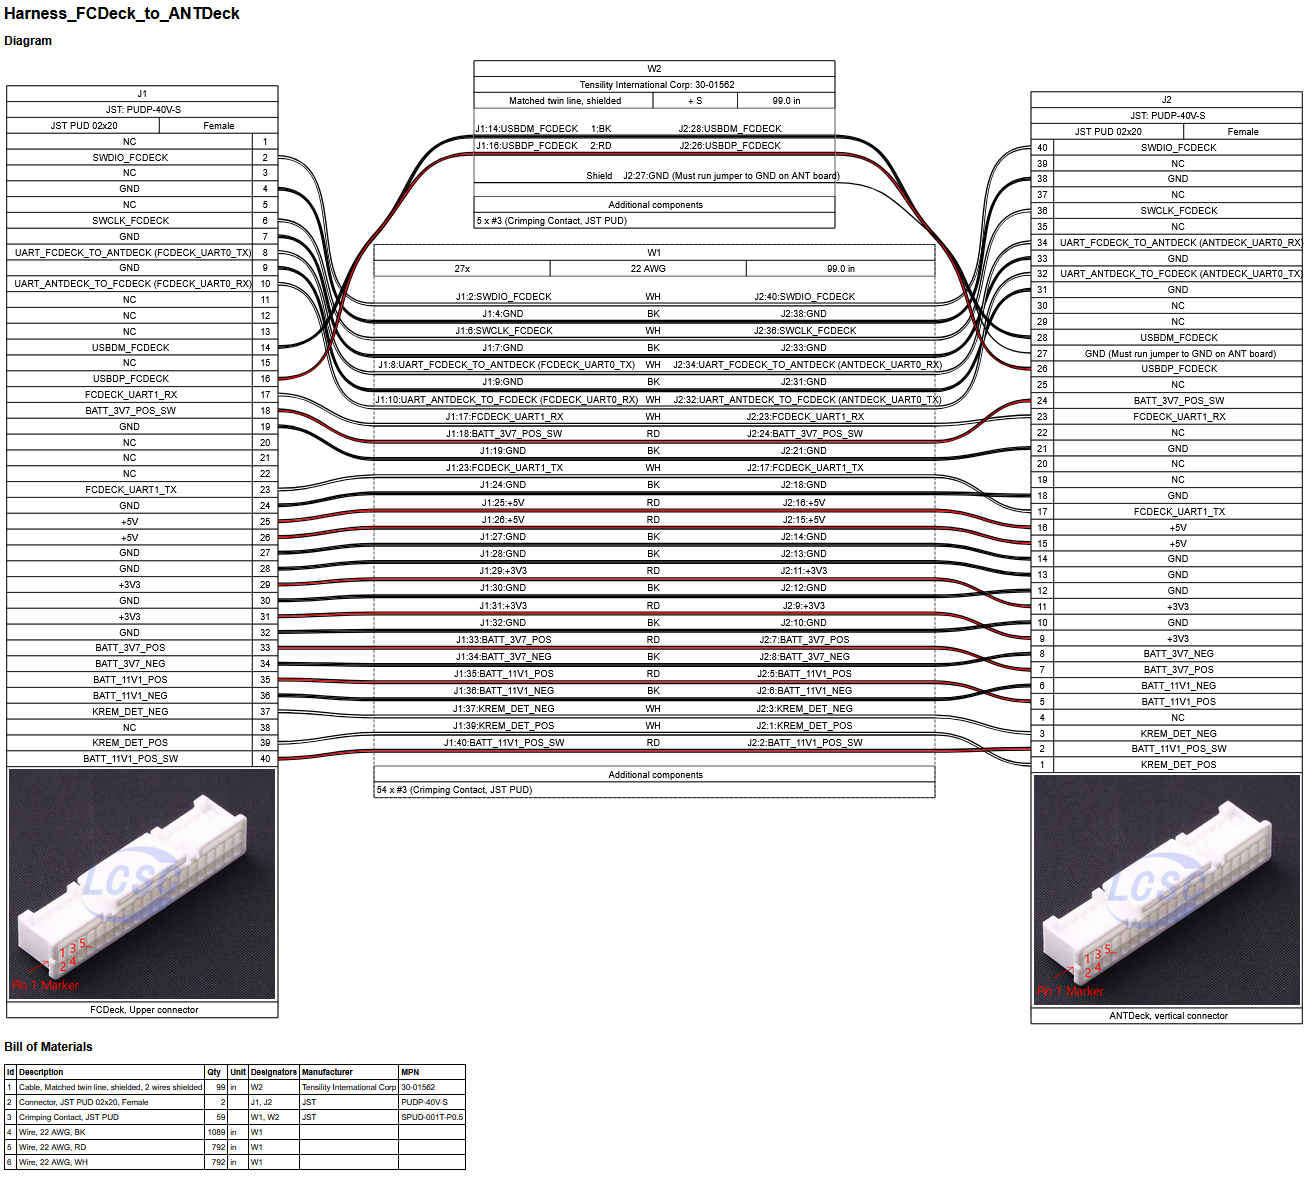
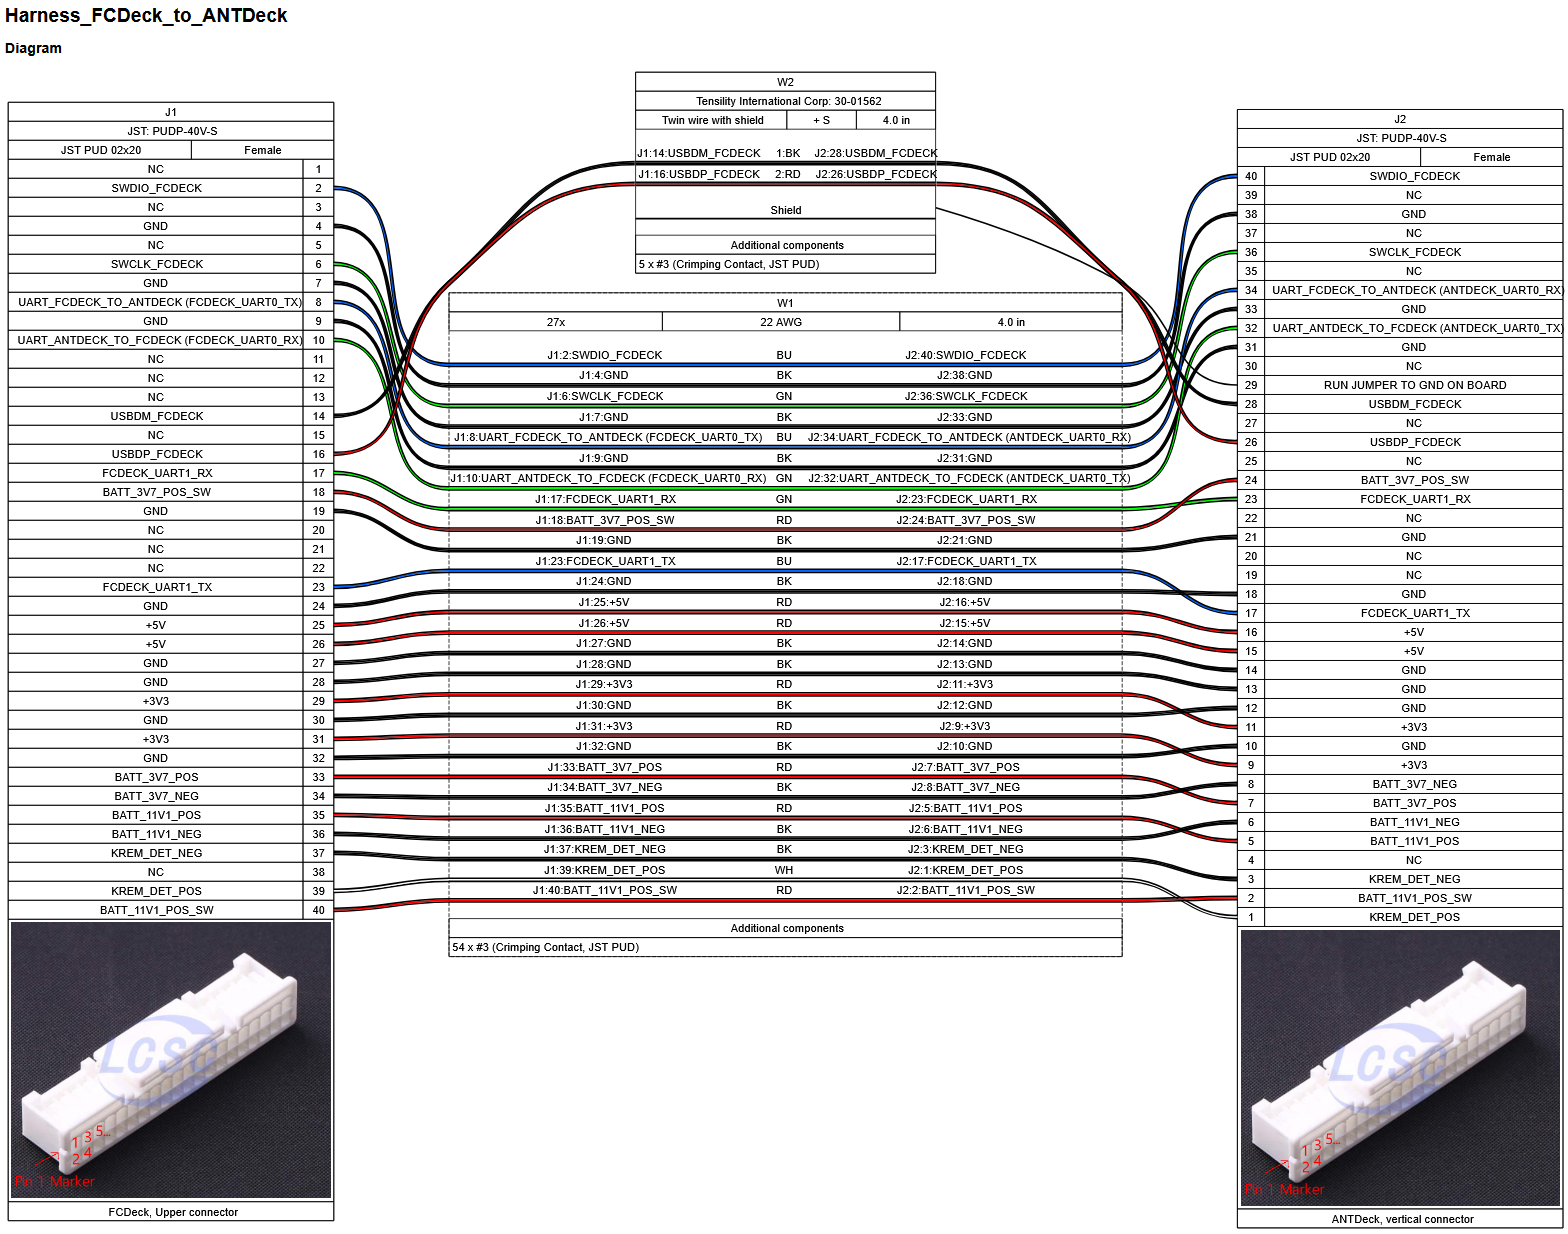
Updated harness picture

diff --git a/README.md b/README.md
@@ -7,7 +7,7 @@ I designed the full flight computer stack used in the University of Kentucky's u
 
 This included schematic capture and a completely new PCB layout which optmized the capsules for ease of assembly and debugging. I also created all of the wiring harnesses used in the capsule.
 
-Examples of these designs can be seen below. Note, these are still work in progress.
+Examples of these designs can be seen below.
 
 ### Flight Computer PCB
 The PCB which contains the capsule's main flight computer, sensors, power management circuitry, and signal passthroughs to the bottom of the internal housing.
@@ -19,7 +19,7 @@ The PCB which contains all of the capsule's radio equipment, and signal passthro
 
 <img src="Pictures/KREPE3_Antenna_deck.png" width="75%">
 
-### Example Harness (Work in Progress)
+### Example Harness
 
 <img src="Pictures/KREPE3 Harness Example.PNG" width="75%">
 
